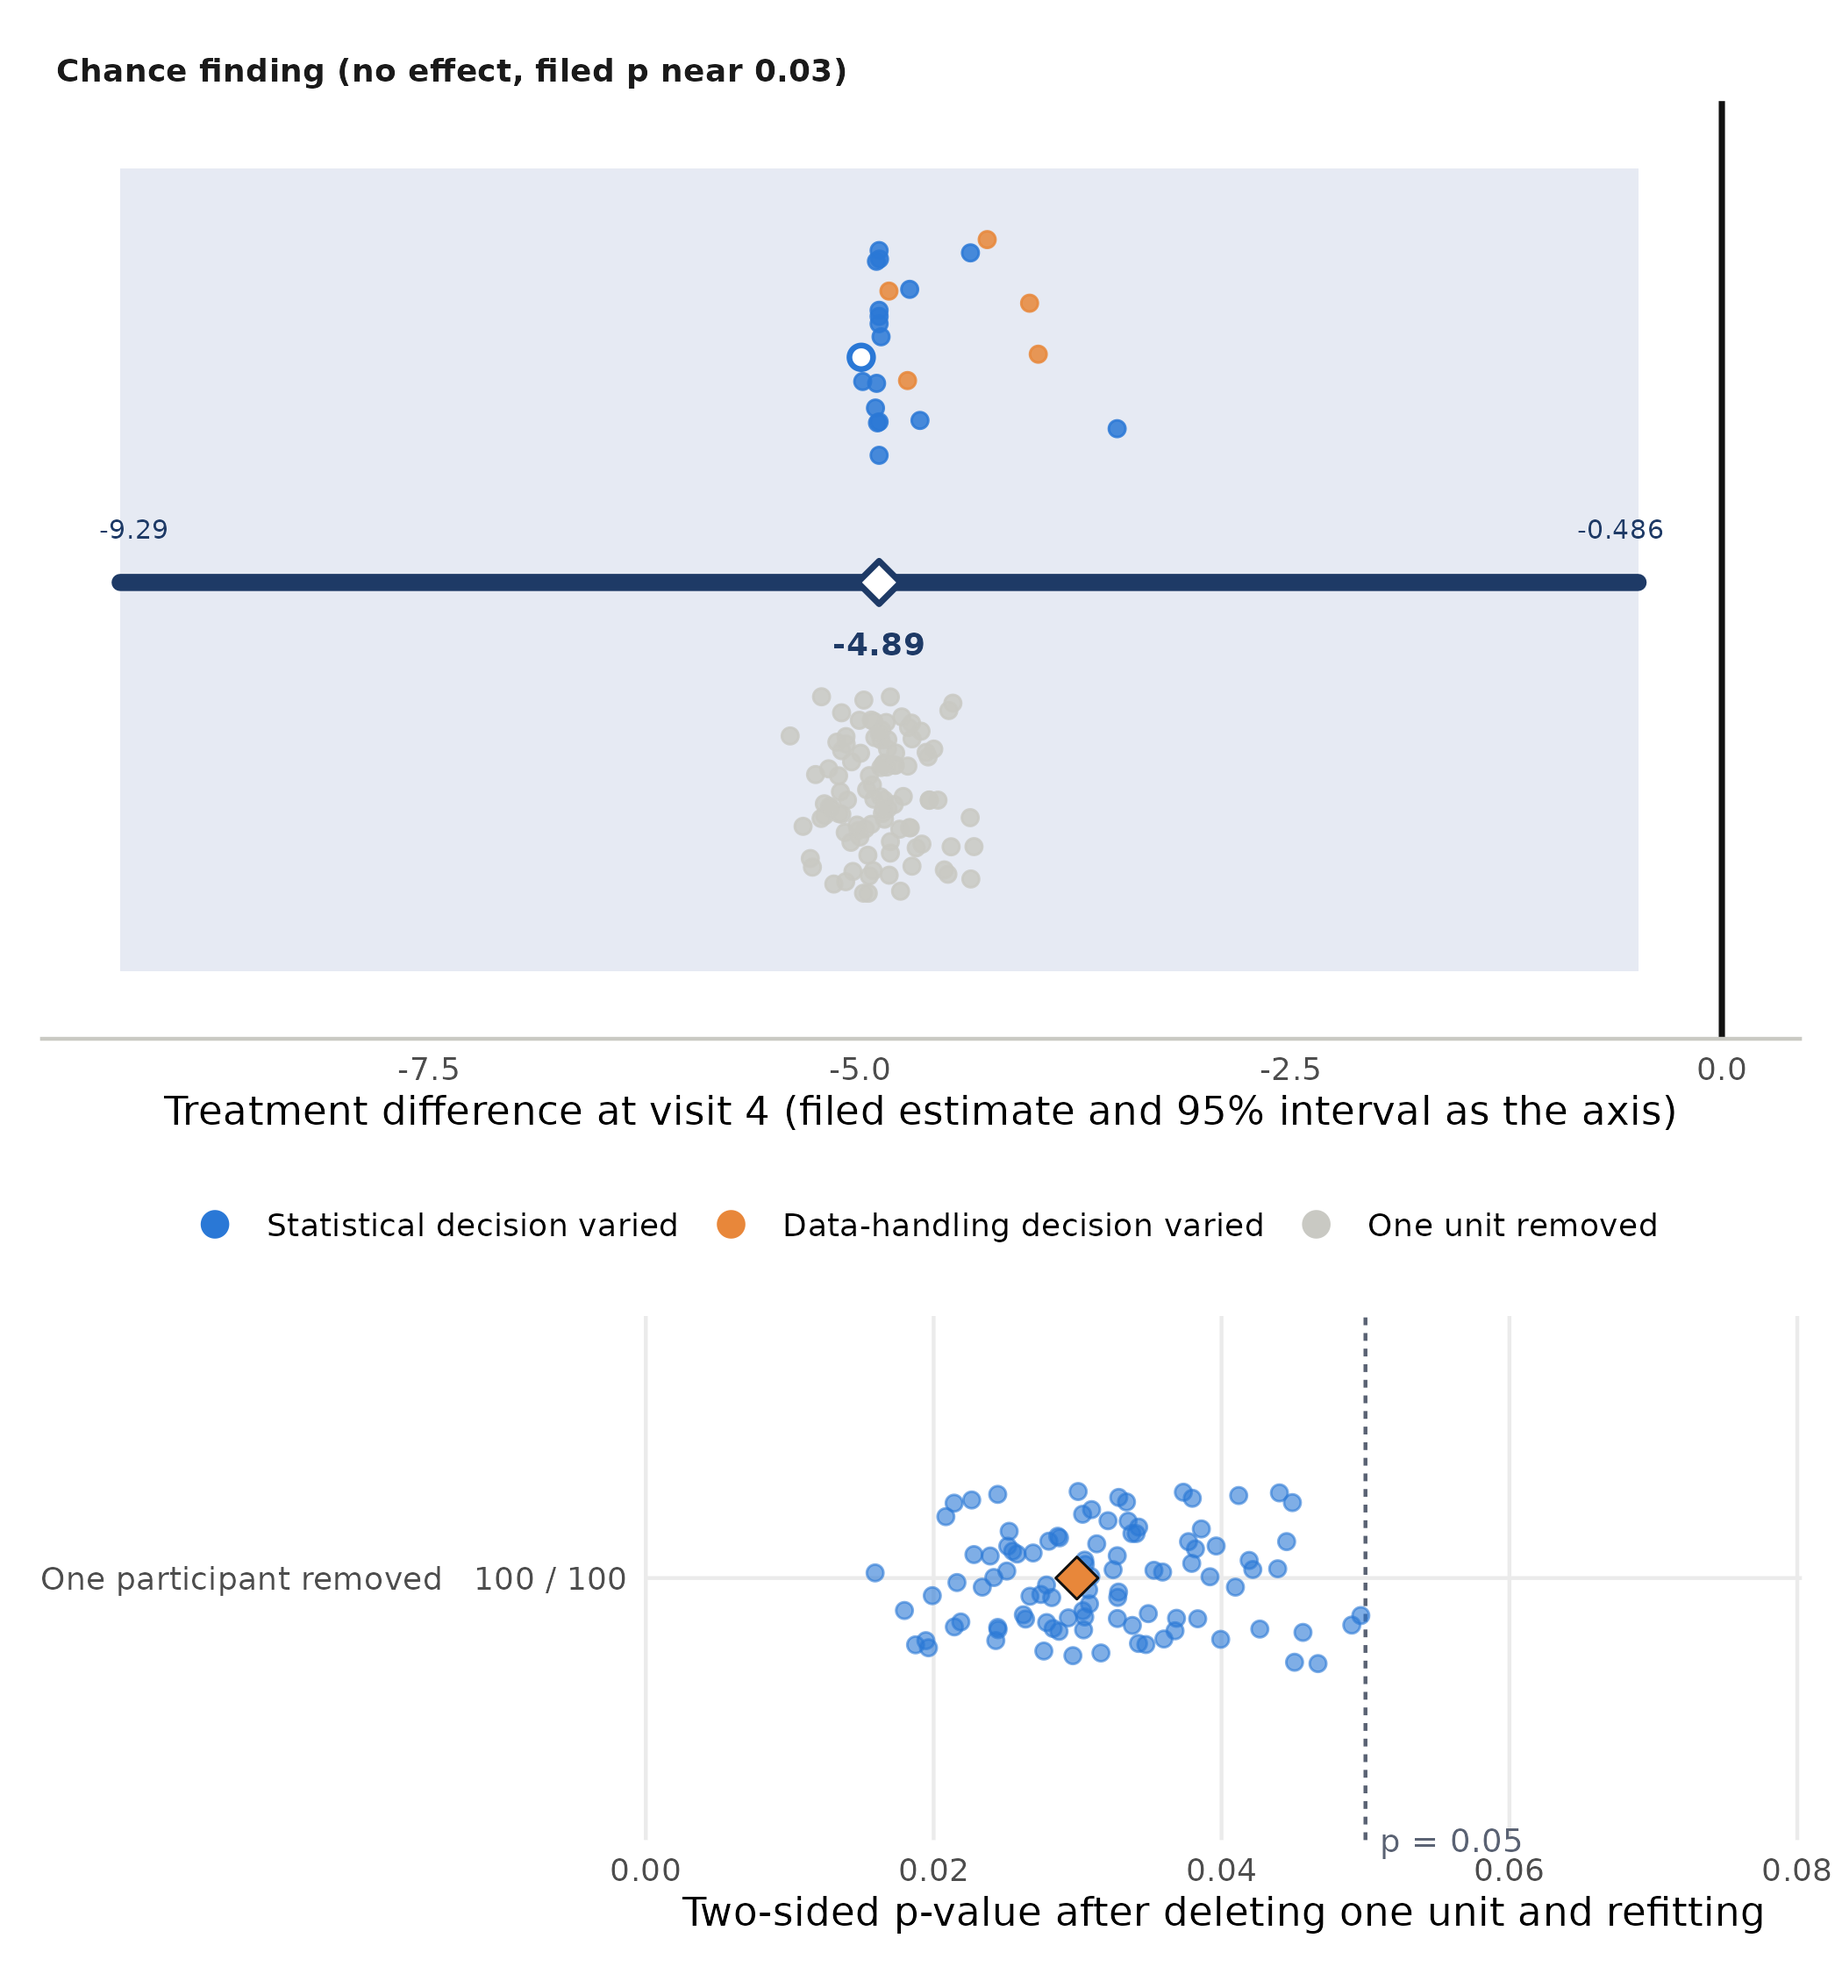
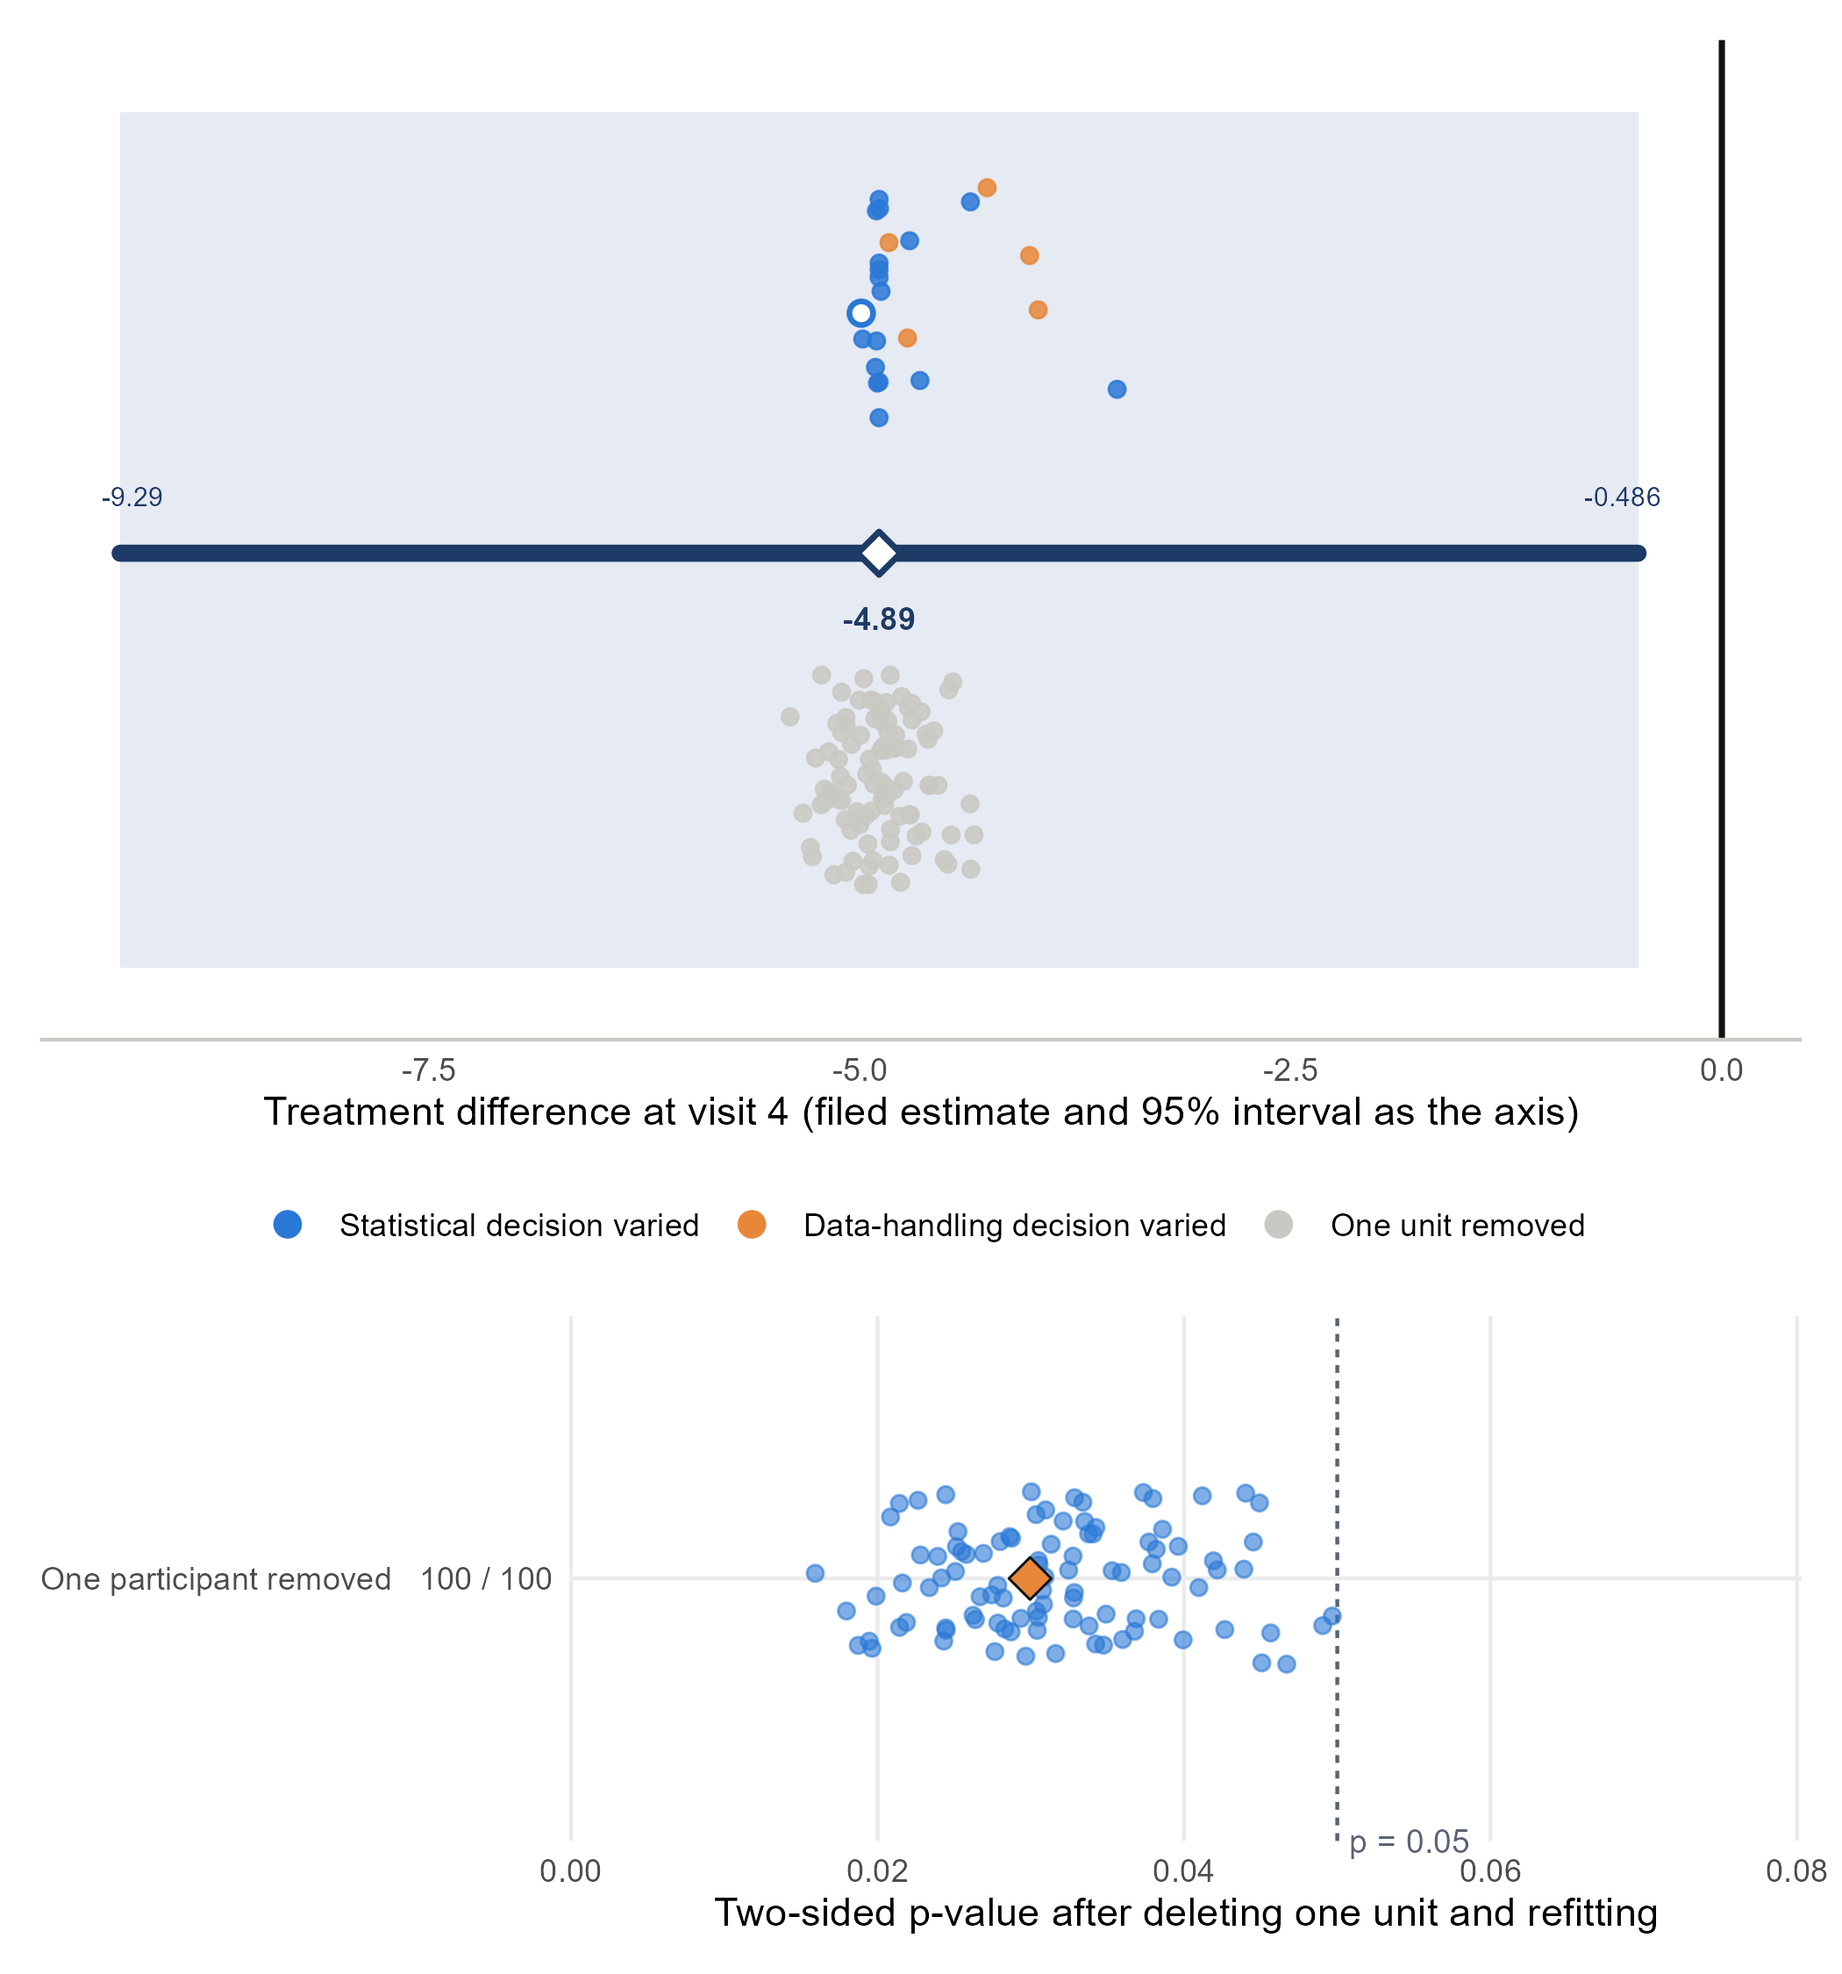
README and CITATION for ballast 0.7.4 on CRAN; Figure S4 without the panel title
The numbers are unchanged: they come from 0.7.3 at 28be8fb. 0.7.4 differs only in
documentation and figure formatting, and its rule text fix is now stated in the past tense.
Figure S4 drops the facet label inside the panel. MANIFEST.csv is refreshed for the changed files.

diff --git a/README.md b/README.md
@@ -1,6 +1,6 @@
 # ballast-paper
 
-This repository holds every script, seed, per-trial row, summary, figure and log behind the numbers and figures in "Stress-testing a pre-specified mixed model for repeated measures: the ballast package" by Adam J. Sullivan and Nathan Hogan, submitted to Statistics in Biopharmaceutical Research in November 2026. Every number the paper quotes from a run under the 0.7.x interval rule comes from ballast 0.7.3 at commit 28be8fb103839ddc214962d0c54800d2c8b610b0, except Study 1 and the reclassification of Studies 2 and 3, which come from ballast 0.7.2 at commit e883efff2773 (the two versions compute the same estimates, p-values, intervals and verdicts; 0.7.3 changes how the complete-case refit is counted and how the swarm legend is drawn). The design grid of Table 4 and the original 50-trial runs of Studies 2 and 3 come from ballast 0.6.0. The package is at https://github.com/Sullivanstatistics/ballast and is archived on Zenodo under the concept DOI 10.5281/zenodo.23427833. No data from the trial that prompted the work are in this repository: every data set here is simulated or comes from the public rbmi and JM packages.
+This repository holds every script, seed, per-trial row, summary, figure and log behind the numbers and figures in "Stress-testing a pre-specified mixed model for repeated measures: the ballast package" by Adam J. Sullivan and Nathan Hogan, submitted to Statistics in Biopharmaceutical Research in November 2026. Every number the paper quotes from a run under the 0.7.x interval rule comes from ballast 0.7.3 at commit 28be8fb103839ddc214962d0c54800d2c8b610b0, except Study 1 and the reclassification of Studies 2 and 3, which come from ballast 0.7.2 at commit e883efff2773 (the two versions compute the same estimates, p-values, intervals and verdicts; 0.7.3 changes how the complete-case refit is counted and how the swarm legend is drawn). The design grid of Table 4 and the original 50-trial runs of Studies 2 and 3 come from ballast 0.6.0. The package is at https://github.com/Sullivanstatistics/ballast and is archived on Zenodo under the concept DOI 10.5281/zenodo.23427833. ballast 0.7.4 has been on CRAN since 31 October 2026 (https://CRAN.R-project.org/package=ballast, doi:10.32614/CRAN.package.ballast). It differs from 0.7.3 at 28be8fb only in documentation and figure formatting, so it gives the same numbers. A reader who wants the exact build the runs used installs that commit from GitHub, as below; a reader who wants the package installs it from CRAN with `install.packages("ballast")`. No data from the trial that prompted the work are in this repository: every data set here is simulated or comes from the public rbmi and JM packages.
 
 The Zenodo DOI of this repository is [to be added when the v1.0-submission release is archived].
 
@@ -76,7 +76,7 @@ The figure scripts and files keep their working names, which number the figures 
 | Figure S5 | sims-073/figures/figS5_defect_trials.R, .pdf, .png (trials: sims-073/results/defect_figure_trials.*) |
 | Figure S6 | sims-073/figures/figS6_defect_pstrips.R, .pdf, .png |
 
-Each figure has its log in logs/ and, where one was written, its caption in figures/*_caption.txt.
+Each figure has its log in logs/ and, where one was written, its caption in figures/*_caption.txt. Figure S4 was redrawn on 1 November 2026 with the facet label removed from inside the panel (one theme line in figS4_chance_finding.R); the data and every other element are unchanged, and its log is from the 29 October run.
 
 ## Seeds
 
@@ -105,7 +105,7 @@ These two passages are copied from sims-073/README.md.
 
 *A package point for the paper.* stress_verdict() calls a result fragile when any counted row, deletions included, lies outside the filed interval; that is what makes the A trials fragile. The plain-language rule that stress_sap(), the plan text and the SAP template print (rule_text() in R/census.R) says "any counted alternative". The text and the code disagree. The paper should describe the code, and the package text should be fixed in a later version.
 
-The paper describes the code. The package text is to be corrected in ballast 0.7.4.
+The paper describes the code. The package text was corrected in ballast 0.7.4, which now reads "any counted refit (an alternative analysis or a deletion)".
 
 ## License and citation
 
